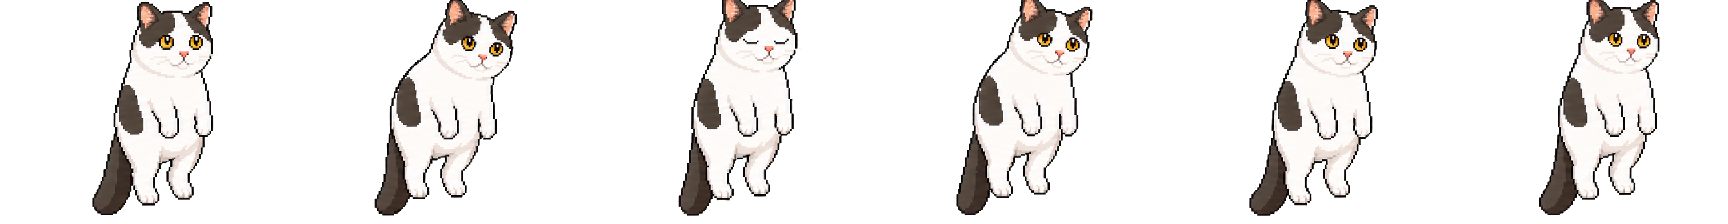
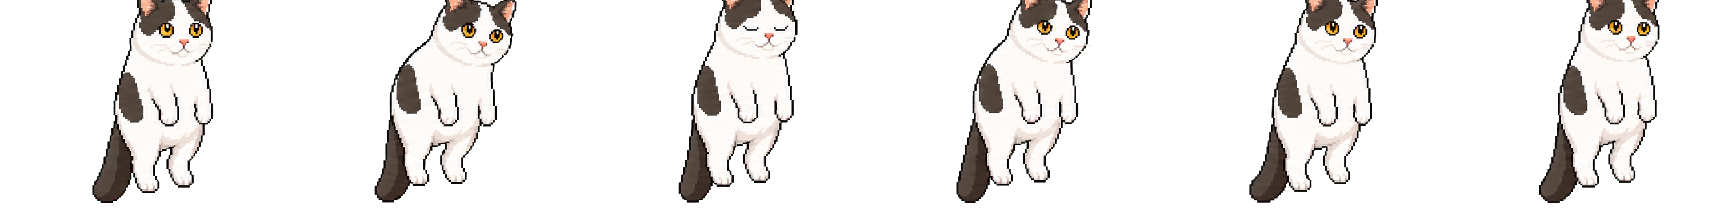
fix: align Xiaomi actions to one ground plane

diff --git a/public/pets/xiaomi/README.md b/public/pets/xiaomi/README.md
@@ -2,6 +2,7 @@
 
 - 每个动作是一条 6 格横向、无损 WebP 条带。
 - 单格尺寸为 288×224；运行时整格替换，不进行头、身体、四肢的局部拼接。
-- 原始画面来自已验收的 ImageGen 小米 Demo；这里只做确定性的透明边缘清理、裁切、缩放与打包。
-- 日常动作与跳跃动作使用不同的固定取景框，但同一动作的六格始终共用同一个取景框。
-
+- 原始画面来自已验收的 ImageGen 小米 Demo；这里只做确定性的透明边缘清理、等比缩放、锚点对齐与打包。
+- 15 个动作使用同一缩放比例。除扑跳外，每一格的最低有效像素都对齐逻辑地面线 `y = 50`；跳起、下落和落地的屏幕位移只由运动层负责，避免重复位移。
+- 扑跳的首尾帧落在同一地面线上，中间两格保留帧内腾空弧线，因为这个动作的运动层只负责横向位移。
+- 修改资源后运行 `sh tools/check-xiaomi-actions.sh`，校验条带尺寸、脚底锚点和扑跳弧线。
